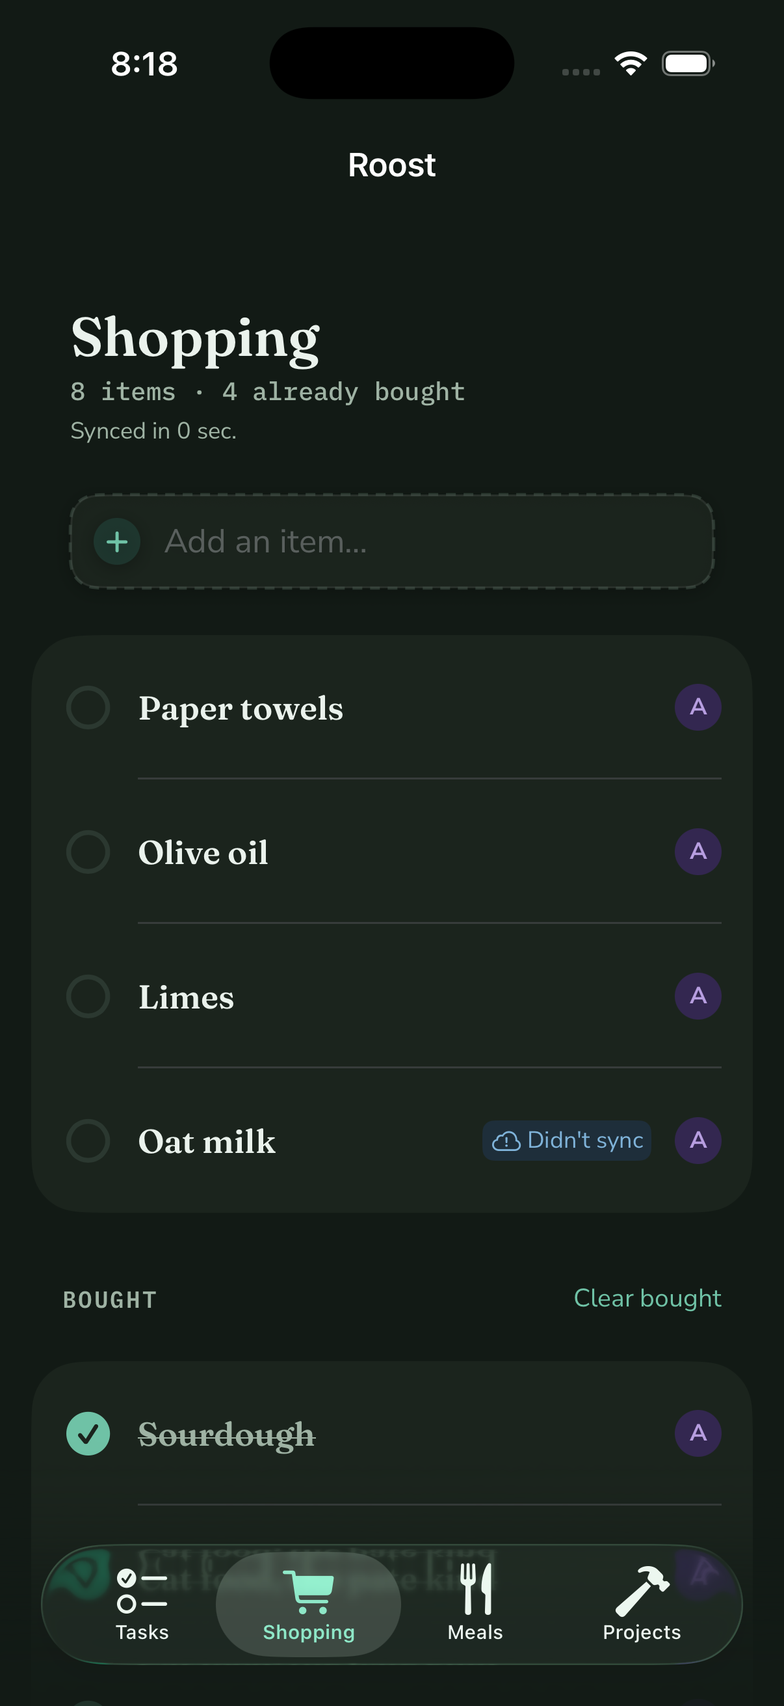
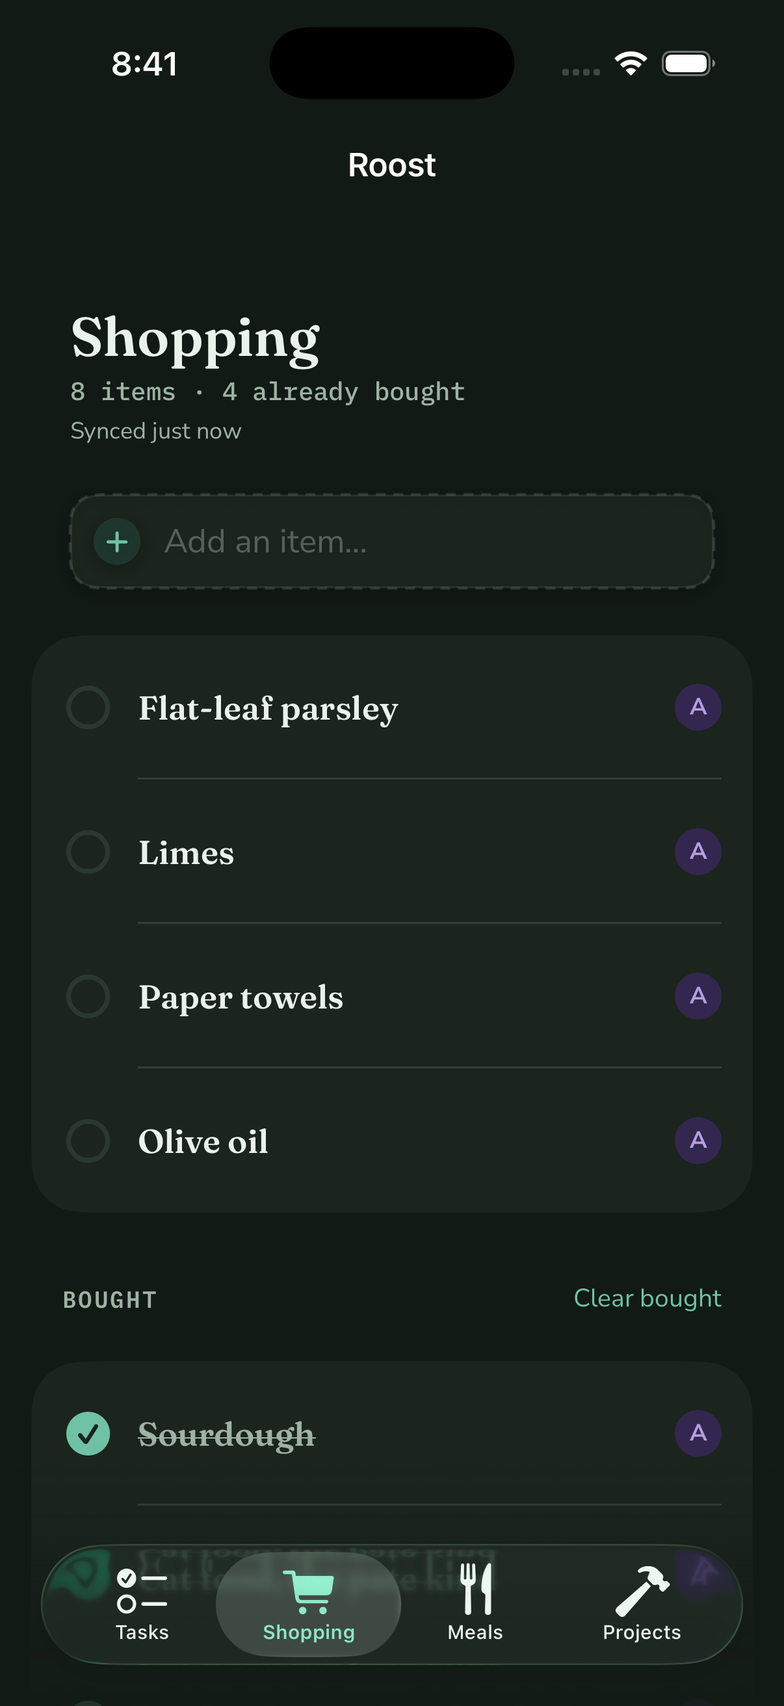
D-3b: the header's synced line reads as a moment, not a duration
A pass that had only just landed showed "Synced in 0 sec." The elapsed time
rounds to nothing and RelativeDateTimeFormatter falls back to its future
phrasing, so under a header that already carries a count the line read like a
duration — as if the sync were still coming — which is the opposite of what it
meant.

The bands are spelled out instead, in a pure SyncStatusCopy so they can be
tested without a clock: under five seconds "Synced just now", then "Synced 28
sec. ago", then minutes, and once an hour has passed the clock time, because by
then when says more than how long ago. A phone whose clock moved backwards
reads "just now" rather than counting into the future.

The rest of statusLine's copy moves to Strings.Sync at the same time; it was
the last screen-facing wording still living in a source file.

diff --git a/Roost/Tests/SyncStatusCopyTests.swift b/Roost/Tests/SyncStatusCopyTests.swift
@@ -1,0 +1,77 @@
+@testable import Roost
+
+// The header's "Synced …" line: four bands and the edges between them.
+import XCTest
+
+final class SyncStatusCopyTests: XCTestCase {
+    /// A fixed clock, and a fixed zone so the last band's time reads the same everywhere.
+    private let now = Date(timeIntervalSince1970: 1_800_000_000) // 2027-01-15 08:13:20 UTC
+
+    private func line(secondsAgo: TimeInterval) -> String {
+        SyncStatusCopy.synced(at: now.addingTimeInterval(-secondsAgo), now: now)
+    }
+
+    // MARK: band 1 — a moment
+
+    func testAFreshPassReadsAsAMomentNotADuration() {
+        // The bug this replaces: RelativeDateTimeFormatter answered "in 0 sec." here.
+        XCTAssertEqual(line(secondsAgo: 0), "Synced just now")
+        XCTAssertEqual(line(secondsAgo: 1), "Synced just now")
+        XCTAssertEqual(line(secondsAgo: 4.9), "Synced just now")
+    }
+
+    func testAClockThatMovedBackwardsStillReadsAsAMoment() {
+        XCTAssertEqual(line(secondsAgo: -30), "Synced just now")
+    }
+
+    // MARK: band 2 — seconds
+
+    func testSecondsCountUpOnceThePassIsNoLongerAMoment() {
+        XCTAssertEqual(line(secondsAgo: 5), "Synced 5 sec. ago")
+        XCTAssertEqual(line(secondsAgo: 28), "Synced 28 sec. ago")
+        XCTAssertEqual(line(secondsAgo: 59), "Synced 59 sec. ago")
+    }
+
+    // MARK: band 3 — minutes
+
+    func testMinutesTakeOverAtOneMinuteAndTruncate() {
+        XCTAssertEqual(line(secondsAgo: 60), "Synced 1 min. ago")
+        XCTAssertEqual(line(secondsAgo: 119), "Synced 1 min. ago")
+        XCTAssertEqual(line(secondsAgo: 120), "Synced 2 min. ago")
+        XCTAssertEqual(line(secondsAgo: 59 * 60), "Synced 59 min. ago")
+    }
+
+    // MARK: band 4 — the clock
+
+    func testAnHourOldPassGivesTheTimeItHappened() {
+        let syncedAt = now.addingTimeInterval(-60 * 60)
+        let expected = "Synced at " + syncedAt.formatted(date: .omitted, time: .shortened)
+        XCTAssertEqual(SyncStatusCopy.synced(at: syncedAt, now: now), expected)
+        // Not a count any more: whatever the locale's short time is, it is not "min. ago".
+        XCTAssertFalse(SyncStatusCopy.synced(at: syncedAt, now: now).contains("ago"))
+    }
+
+    func testYesterdayStillGivesATimeRatherThanACount() {
+        let syncedAt = now.addingTimeInterval(-26 * 60 * 60)
+        let expected = "Synced at " + syncedAt.formatted(date: .omitted, time: .shortened)
+        XCTAssertEqual(SyncStatusCopy.synced(at: syncedAt, now: now), expected)
+    }
+
+    // MARK: the whole ladder
+
+    func testEveryBandIsReachedAndNoBandEverSaysIn() {
+        let samples: [TimeInterval] = [0, 2, 4.999, 5, 30, 59.999, 60, 600, 3599, 3600, 86400]
+        let lines = samples.map { line(secondsAgo: $0) }
+        // The reported bug was the word "in", from the formatter's future phrasing.
+        for line in lines {
+            XCTAssertFalse(line.hasPrefix("Synced in "), "\(line) reads as a duration")
+        }
+        XCTAssertEqual(
+            Set(lines.filter { $0 == "Synced just now" }).count, 1,
+            "the moment band should be reached"
+        )
+        XCTAssertTrue(lines.contains { $0.hasSuffix("sec. ago") })
+        XCTAssertTrue(lines.contains { $0.hasSuffix("min. ago") })
+        XCTAssertTrue(lines.contains { $0.hasPrefix("Synced at ") })
+    }
+}

diff --git a/Roost/Sources/Models/SyncStatusCopy.swift b/Roost/Sources/Models/SyncStatusCopy.swift
@@ -1,0 +1,31 @@
+// How the header's "Synced …" line reads. Pure, so the bands can be tested without a clock.
+import Foundation
+
+/// The words for how long ago the last pass finished.
+///
+/// `RelativeDateTimeFormatter` answers "in 0 sec." for a sync that has just landed: the elapsed time
+/// rounds to nothing and it falls back to the future phrasing. Under a header that already carries a
+/// count, "Synced in 0 sec." reads as a duration — as if the sync were still coming — which is the
+/// opposite of what it means. So the bands are spelled out instead.
+///
+/// A sync that just happened is a moment, not a measurement: it reads "just now". After that a count
+/// of seconds is worth having, because it says the list is current. Past a minute the seconds stop
+/// mattering and minutes do. Past an hour neither does — what a person wants to know then is *when*,
+/// so the clock time takes over.
+enum SyncStatusCopy {
+    /// Anything fresher than this is a moment rather than a count.
+    static let momentWindow: TimeInterval = 5
+    /// From here on the clock time says more than a count of minutes.
+    static let clockWindow: TimeInterval = 60 * 60
+
+    /// `now` is injectable so the tests can stand still.
+    static func synced(at date: Date, now: Date = Date()) -> String {
+        let elapsed = now.timeIntervalSince(date)
+        // A negative interval means the phone's clock moved backwards between the sync and this
+        // render. There is no sensible count to show, and "just now" is true enough.
+        guard elapsed >= momentWindow else { return Strings.Sync.syncedJustNow }
+        guard elapsed >= 60 else { return Strings.Sync.syncedSecondsAgo(Int(elapsed)) }
+        guard elapsed >= clockWindow else { return Strings.Sync.syncedMinutesAgo(Int(elapsed / 60)) }
+        return Strings.Sync.syncedAt(date.formatted(date: .omitted, time: .shortened))
+    }
+}

diff --git a/Roost/Sources/Strings.swift b/Roost/Sources/Strings.swift
@@ -196,6 +196,35 @@ enum Strings {
         static let neverSynced = "Not synced yet"
     }
 
+    /// The one-line sync status under every tab header. `SyncStatusCopy` picks which of the
+    /// "Synced …" forms to use; the wording lives here.
+    enum Sync {
+        static let syncing = "Syncing…"
+        static let neverSynced = "Not synced yet"
+        static let notPaired = "Not paired · tap the gear"
+        /// The reason comes from the failure itself, so it is the server's or the system's words.
+        static func offline(_ reason: String) -> String {
+            "Offline · will retry (\(reason))"
+        }
+
+        /// Synced, but the phone did not keep when.
+        static let synced = "Synced"
+        /// A pass that has only just landed: a moment, not a measurement.
+        static let syncedJustNow = "Synced just now"
+        static func syncedSecondsAgo(_ seconds: Int) -> String {
+            "Synced \(seconds) sec. ago"
+        }
+
+        static func syncedMinutesAgo(_ minutes: Int) -> String {
+            "Synced \(minutes) min. ago"
+        }
+
+        /// An hour or more later a count stops helping and the clock time takes over.
+        static func syncedAt(_ time: String) -> String {
+            "Synced at \(time)"
+        }
+    }
+
     /// First run: what this is, the pairing code, who the server says you are, notifications.
     /// Four screens, one job each. Sentence case in the body, no terminal period on a button.
     enum Onboarding {

diff --git a/Roost/Sources/Sync/SyncCoordinator.swift b/Roost/Sources/Sync/SyncCoordinator.swift
@@ -101,22 +101,20 @@ final class SyncCoordinator {
         needsOnboarding = true
     }
 
+    /// The line under every tab header. The wording is in `Strings.Sync`; how long ago a successful
+    /// pass reads as is `SyncStatusCopy`.
     var statusLine: String {
         if isSyncing {
-            return "Syncing…"
+            return Strings.Sync.syncing
         }
         switch lastOutcome {
-        case .none: return "Not synced yet"
-        case .unpaired: return "Not paired · tap the gear"
-        case .coalesced: return "Syncing…"
-        case let .failed(m): return "Offline · will retry (\(m))"
+        case .none: return Strings.Sync.neverSynced
+        case .unpaired: return Strings.Sync.notPaired
+        case .coalesced: return Strings.Sync.syncing
+        case let .failed(message): return Strings.Sync.offline(message)
         case .synced:
-            if let t = lastSyncAt {
-                let f = RelativeDateTimeFormatter()
-                f.unitsStyle = .short
-                return "Synced \(f.localizedString(for: t, relativeTo: Date()))"
-            }
-            return "Synced"
+            guard let lastSyncAt else { return Strings.Sync.synced }
+            return SyncStatusCopy.synced(at: lastSyncAt)
         }
     }
 }

diff --git a/Roost/README.md b/Roost/README.md
@@ -21,7 +21,7 @@ SwiftUI + SwiftData, iOS 18+, offline-first. The phone keeps its own store and s
 
 One file per screen, replaced in place rather than kept per ticket. Tasks and Kitchen mode are a fresh, unpaired simulator install: the streaks are tied at 0 so nobody is tagged as ahead, nothing is overdue yet so no row has a subtitle, and Kitchen mode is the same install later that day with three of Anne's chores checked off (12 + 16 = 28 of 31 still due), so it shows the calm state.
 
-The three list screens are paired as Anne against a local server, each in light and dark. Shopping has four rows still to buy over a Bought section with "Clear bought"; "Oat milk" carries the "Didn't sync" marker because the server had already deleted that row, which is what the marker is for. Meals has one idea marked NEXT UP and three with a tag and a "last made" line, one of them a weekday and one a date. Projects has a finished card open (DONE chip, full bar, Archive) over a second card at 2/4.
+The three list screens are paired as Anne against a local server, each in light and dark. Shopping has four rows still to buy over a Bought section with "Clear bought", and the header line reads "Synced just now" because the pass had only landed a moment before. Meals has one idea marked NEXT UP and three with a tag and a "last made" line, one of them a weekday and one a date. Projects has a finished card open (DONE chip, full bar, Archive) over a second card at 2/4.
 
 ## Layout
 
@@ -53,6 +53,7 @@ Roost/
     Models/TodayPlanner.swift pure: records -> per-person rows via RoostCore Scheduler/Tallies
     Models/StreakHeaderModel.swift pure: streaks + weekly tallies -> two sides, the leader (nil on a tie), the tally line
     Models/EscalationCopy.swift pure: EscalationStage + category -> row subtitle (nil for dueToday and done rows)
+    Models/SyncStatusCopy.swift pure: how long ago the last pass reads in the header — just now, seconds, minutes, then the clock time
     Models/KitchenModel.swift pure: TodayPlan -> Anne/Wes columns (due count, overdue by stage) + the shared alert list; caught-up rule; "Synced …" line
     Sync/TokenStore.swift     Keychain (app) / in-memory (tests) storage for the device token
     Sync/SyncAPI.swift        typed HTTP client for server/ — no policy, no storage
@@ -107,7 +108,7 @@ xcodebuild -project Roost/Roost.xcodeproj -scheme Roost \
   -destination 'platform=iOS Simulator,name=iPhone 17 Pro' test
 ```
 
-139 tests: seed (31 rows, 2 pinned, idempotent, retire/restore, converters), sync (pairing stores person/cursor/token; 401 stores nothing; a queued completion is POSTed once and marked synced; a 400 marks it rejected and it is never retried; offline keeps the queue; a delete replays as DELETE; a delta with `deleted: true` hides the local row; server-sent chores re-seed; overlapping syncs coalesce), the list replay (a local shopping add is POSTed once and marked synced, with `addedBy` taken from the server's reply; a meal add carries its tag and every other field, so a 201 leaves nothing to PATCH; edits made before a create is replayed outlive the server's stale 200 and go out as a PATCH; a project with first steps goes out as one POST and every step comes back synced; a step added to a synced project POSTs to `/projects/:id/subtasks` and its check-off PATCHes only `done`; a bought toggle PATCHes only `bought`, un-buying PATCHes again, and acknowledged edits are not replayed; "made it today" and "next up" ride one PATCH and the old holder is cleared locally without a request; a delete replays as DELETE and a row the server never saw sends nothing; removing a project cascades locally and sends one DELETE), the list failure modes (a 400 create is kept and never retried; a 503 keeps the queue; a rate-limited DELETE stays queued while the pull still runs; a DELETE the server refuses is acknowledged and never retried; a dead connection ends the pass at the first row with the queue intact), the list delta (a delta with `deleted: true` removes the local row without echoing a DELETE; next-up exclusivity is reflected after a delta; a project delta with subtasks lands in both tables and a cascade delta empties them; the cursor advances to the server's value and holds when nothing changed; a pending local edit outlives a delta carrying the server's older copy of the same row), planning (pinned chores land on the right person; cat care sorts first; a completion today shows as a done row and counts in the tally; overdue days map to the escalation stage), the streak header (the higher streak leads; a tie, including 0 vs 0, has no leader; sides come out Anne then Wes with missing values as 0; the tally line reads `Anne · 14   Wes · 11`; it builds from a plan), the escalation copy (no subtitle for due today; nudge names the chore; pointed depends on category; alert capitalizes the chore; every overdue stage has copy for both categories; rows flow through their stage and done rows get nothing), the root tabs (four tabs in order with their SF Symbols; the list headers read like the mockup, singular and plural), notifications (fixture plan yields the expected ids, Chicago fire times and titles; a replan clears the previous set; the other person's chores never appear; badge count; overlapping replans coalesce), pairing (the sixth digit submits and five do not; a 404 clears the boxes, counts a rejection and offers no retry; a 429 and a dead connection keep the code and offer one; a retry after a transport failure pairs; a pasted code with spaces or words around it fills every box and submits once; a short paste waits; deleting a digit clears the message without resubmitting; digits arriving mid-attempt are ignored; every status code maps to one sentence; the device name is trimmed to the server's 60; the stored base URL beats production and junk does not; POST /pair carries the code and the device name and no bearer, and its 404/429/400/403/500 and a dead connection come back typed; DELETE /pair/self carries the bearer and reads the label, and its 403 is `forbidden`; pairing by code stores the token the server minted and a failure stores nothing; unpairing tells the server then forgets the token, a hand-minted device is forgotten locally with a note, an unreachable server still unpairs this phone, and a phone that was never paired sends nothing), the Settings rows (the server's label replaces this phone's own name and a failed call leaves it in place; a success after a failure clears the failure; an unpaired phone is not a failure; paired-since is the server's date, "Set up by hand" for a tokens-file device, and absent when the server gave no date; the person comes from the server; two refreshes at once are one request; `GET /me` carries the bearer to `/me` and becomes a `DeviceIdentity`, a `file` token has no pairing date, a label the server left blank reads as none, and a revoked token is `unauthorized`), and Kitchen mode (overdue rows group by person and sort by stage descending with the right copy; alert-stage rows from both people land in the banner, most days late first; an empty plan and an all-due-today plan are both caught up; a 5-day-overdue litter box for Wes is a "Scoop litter emergency" in the banner; a missing `activeFrom` falls back to today; the synced line), the list craft (`ListCraftTests`: the bought/to-buy split keeps its two orders and tolerates a missing `boughtAt`; undo of a delete that never left the phone un-removes the same row and sends nothing, undo of one that did inserts a copy under a new id with `bought` flagged for the PATCH that follows the create, and a synced row's pending edit survives either way; "Clear bought" empties the section and restores all of it; a meal's copy carries every field; undoing a project restores exactly the steps that cascaded with it, and rebuilds them with new ids once the server has cascaded too; `SubtaskOrder` sends one midpoint row when there is a gap, `previous + 16` at the end, `first / 2` at the front, renumbers on a stride only when there is no room, stays strictly increasing inside the server's range, and sends nothing for a no-op move; a project is finished only when it has steps and all of them are done, and ticking or deleting the last one flips it; the progress fraction; `MealDates` reads today / yesterday / the weekday / the date against a pinned Chicago calendar; removing a rejected row sends nothing; and the five-second window commits on lapse, restores on undo, and is replaced by a newer deletion), the list craft against a real pass (`ListUndoSyncTests`: undo inside the window sends no DELETE at all; undo after it went out POSTs the copy once, PATCHes `bought`, never resends the DELETE, and settles with one live row; a drag PATCHes only the step that moved, with `sortOrder` and no `title`).
+146 tests: seed (31 rows, 2 pinned, idempotent, retire/restore, converters), sync (pairing stores person/cursor/token; 401 stores nothing; a queued completion is POSTed once and marked synced; a 400 marks it rejected and it is never retried; offline keeps the queue; a delete replays as DELETE; a delta with `deleted: true` hides the local row; server-sent chores re-seed; overlapping syncs coalesce), the list replay (a local shopping add is POSTed once and marked synced, with `addedBy` taken from the server's reply; a meal add carries its tag and every other field, so a 201 leaves nothing to PATCH; edits made before a create is replayed outlive the server's stale 200 and go out as a PATCH; a project with first steps goes out as one POST and every step comes back synced; a step added to a synced project POSTs to `/projects/:id/subtasks` and its check-off PATCHes only `done`; a bought toggle PATCHes only `bought`, un-buying PATCHes again, and acknowledged edits are not replayed; "made it today" and "next up" ride one PATCH and the old holder is cleared locally without a request; a delete replays as DELETE and a row the server never saw sends nothing; removing a project cascades locally and sends one DELETE), the list failure modes (a 400 create is kept and never retried; a 503 keeps the queue; a rate-limited DELETE stays queued while the pull still runs; a DELETE the server refuses is acknowledged and never retried; a dead connection ends the pass at the first row with the queue intact), the list delta (a delta with `deleted: true` removes the local row without echoing a DELETE; next-up exclusivity is reflected after a delta; a project delta with subtasks lands in both tables and a cascade delta empties them; the cursor advances to the server's value and holds when nothing changed; a pending local edit outlives a delta carrying the server's older copy of the same row), planning (pinned chores land on the right person; cat care sorts first; a completion today shows as a done row and counts in the tally; overdue days map to the escalation stage), the streak header (the higher streak leads; a tie, including 0 vs 0, has no leader; sides come out Anne then Wes with missing values as 0; the tally line reads `Anne · 14   Wes · 11`; it builds from a plan), the escalation copy (no subtitle for due today; nudge names the chore; pointed depends on category; alert capitalizes the chore; every overdue stage has copy for both categories; rows flow through their stage and done rows get nothing), the root tabs (four tabs in order with their SF Symbols; the list headers read like the mockup, singular and plural), notifications (fixture plan yields the expected ids, Chicago fire times and titles; a replan clears the previous set; the other person's chores never appear; badge count; overlapping replans coalesce), pairing (the sixth digit submits and five do not; a 404 clears the boxes, counts a rejection and offers no retry; a 429 and a dead connection keep the code and offer one; a retry after a transport failure pairs; a pasted code with spaces or words around it fills every box and submits once; a short paste waits; deleting a digit clears the message without resubmitting; digits arriving mid-attempt are ignored; every status code maps to one sentence; the device name is trimmed to the server's 60; the stored base URL beats production and junk does not; POST /pair carries the code and the device name and no bearer, and its 404/429/400/403/500 and a dead connection come back typed; DELETE /pair/self carries the bearer and reads the label, and its 403 is `forbidden`; pairing by code stores the token the server minted and a failure stores nothing; unpairing tells the server then forgets the token, a hand-minted device is forgotten locally with a note, an unreachable server still unpairs this phone, and a phone that was never paired sends nothing), the Settings rows (the server's label replaces this phone's own name and a failed call leaves it in place; a success after a failure clears the failure; an unpaired phone is not a failure; paired-since is the server's date, "Set up by hand" for a tokens-file device, and absent when the server gave no date; the person comes from the server; two refreshes at once are one request; `GET /me` carries the bearer to `/me` and becomes a `DeviceIdentity`, a `file` token has no pairing date, a label the server left blank reads as none, and a revoked token is `unauthorized`), and Kitchen mode (overdue rows group by person and sort by stage descending with the right copy; alert-stage rows from both people land in the banner, most days late first; an empty plan and an all-due-today plan are both caught up; a 5-day-overdue litter box for Wes is a "Scoop litter emergency" in the banner; a missing `activeFrom` falls back to today; the synced line), the list craft (`ListCraftTests`: the bought/to-buy split keeps its two orders and tolerates a missing `boughtAt`; undo of a delete that never left the phone un-removes the same row and sends nothing, undo of one that did inserts a copy under a new id with `bought` flagged for the PATCH that follows the create, and a synced row's pending edit survives either way; "Clear bought" empties the section and restores all of it; a meal's copy carries every field; undoing a project restores exactly the steps that cascaded with it, and rebuilds them with new ids once the server has cascaded too; `SubtaskOrder` sends one midpoint row when there is a gap, `previous + 16` at the end, `first / 2` at the front, renumbers on a stride only when there is no room, stays strictly increasing inside the server's range, and sends nothing for a no-op move; a project is finished only when it has steps and all of them are done, and ticking or deleting the last one flips it; the progress fraction; `MealDates` reads today / yesterday / the weekday / the date against a pinned Chicago calendar; removing a rejected row sends nothing; and the five-second window commits on lapse, restores on undo, and is replaced by a newer deletion), the list craft against a real pass (`ListUndoSyncTests`: undo inside the window sends no DELETE at all; undo after it went out POSTs the copy once, PATCHes `bought`, never resends the DELETE, and settles with one live row; a drag PATCHes only the step that moved, with `sortOrder` and no `title`), and the header's synced line (a pass that has only just landed reads "Synced just now" rather than a duration, a clock that moved backwards reads the same, seconds count up from five, minutes take over at sixty and truncate, and an hour on it gives the time it happened rather than a count).
 
 ## Pairing
 
@@ -191,6 +192,8 @@ Unpair and a fresh code.
 It runs on launch, when the app returns to the foreground, after every check-off and every list write, and from Gear → Sync now. An in-flight guard coalesces overlapping calls into at most one extra pass.
 
 **Offline is not an error.** A transport failure or 5xx leaves the queue untouched, returns `.failed`, and the next trigger retries. Only a 401 aborts the pass (the token was revoked; re-pair).
+
+**The status line.** `SyncCoordinator.statusLine` is the one line under every tab header: "Syncing…", "Not synced yet", "Not paired · tap the gear", "Offline · will retry (<reason>)", or how long ago the last pass landed. The wording is in `Strings.Sync`; the bands are `SyncStatusCopy`. A pass that has only just finished reads "Synced just now" — under five seconds there is nothing to count, and `RelativeDateTimeFormatter` answered "in 0 sec." there, which reads as a duration rather than a moment. After that it is "Synced 28 sec. ago", then minutes, and once an hour has passed the clock time ("Synced at 8:41 AM") says more than a count.
 
 ## Screens
 
